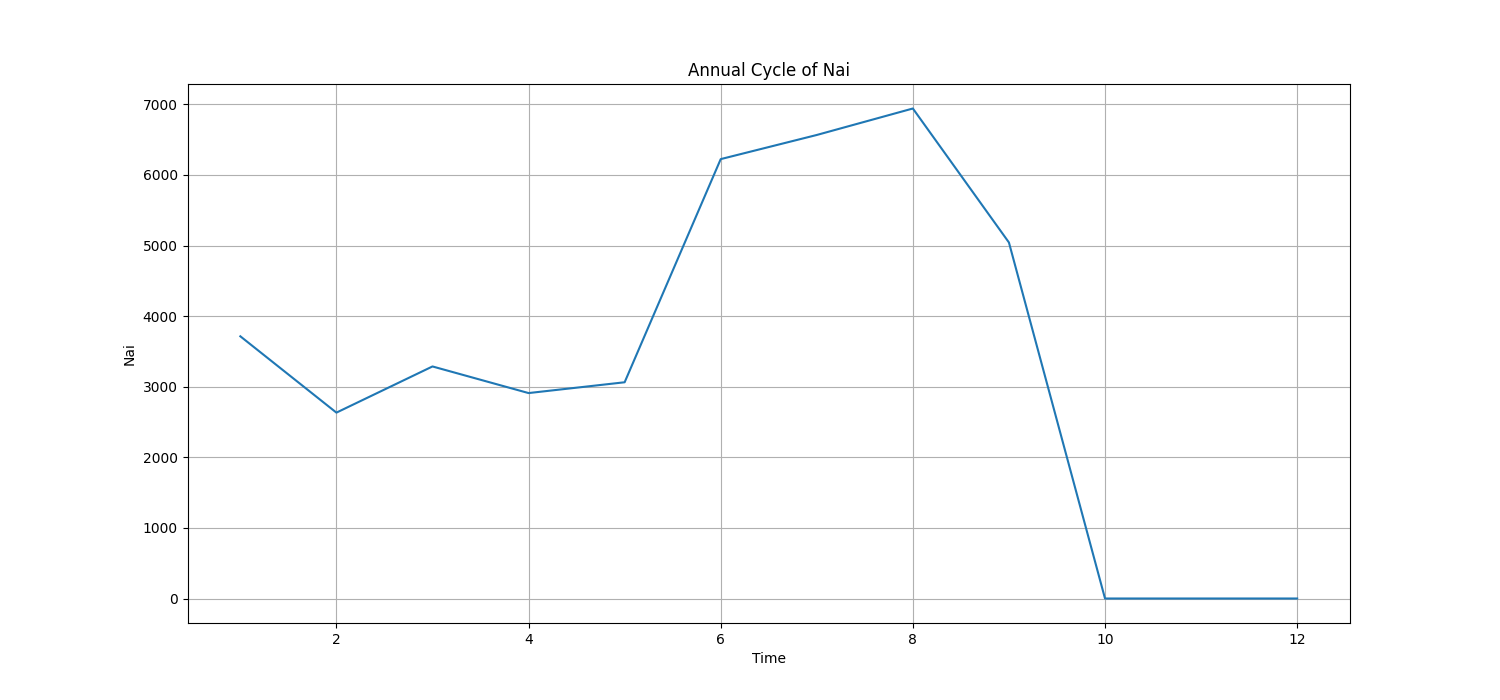
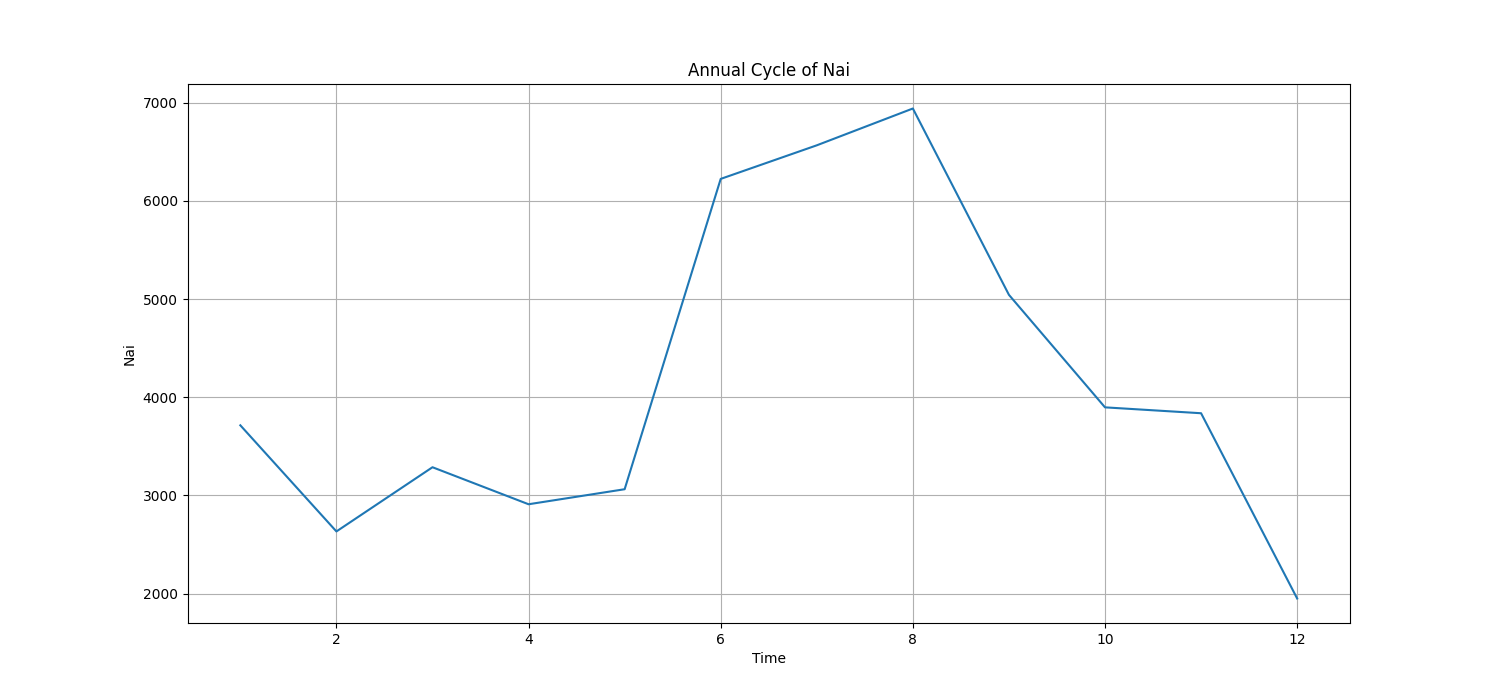
完善前端页面

diff --git a/sayhello/views.py b/sayhello/views.py
@@ -30,106 +30,6 @@ pd.set_option('display.width', 1000)
 
 
 
-"""
-# 画子图
-groups = [0, 1, 2, 3, 4, 5, 6, 7, 8, 9] # 绘制指定列的图
-i = 1
-pyplot.figure() # 绘制每一列
-for group in groups:
-    pyplot.subplot(len(groups), 1, i) # 行数、列数、索引数
-    pyplot.plot(values[:, group]) # 取所有行的group列
-    pyplot.title(dataset.columns[group], y=0.5, loc='right') # 命名
-    i += 1
-pyplot.show()
-print(dataset.head(5))
-"""
-
-# # 将数据转为监督学习所需格式
-# def series_to_supervised(data, n_in=1, n_out=1, dropnan=True):
-#     n_vars = 1 if type(data) is list else data.shape[1]
-#     df = DataFrame(data)
-#     cols, names = list(), list()
-#     # 输入步长序列 (t-n, ... t-1)
-#     for i in range(n_in, 0, -1):
-#         cols.append(df.shift(i))
-#         names += [('var%d(t-%d)' % (j+1, i)) for j in range(n_vars)]
-
-#     # 输出（预测）步长序列 (t, t+1, ... t+n)
-#     for i in range(0, n_out):
-#         cols.append(df.shift(-i))
-#         if i == 0:
-#             names += [('var%d(t)' % (j+1)) for j in range(n_vars)]
-#         else:
-#             names += [('var%d(t+%d)' % (j+1, i)) for j in range(n_vars)]
-
-
-#     # 合在一次
-#     agg = concat(cols, axis=1)
-#     agg.columns = names
-#     # 删除有空值的行
-#     if dropnan:
-#         agg.dropna(inplace=True)
-#     return agg
-
-# # 确保所有的数都是浮点数
-# values = values.astype('float32')
-# # 归一化所有的特征
-# scaler = MinMaxScaler(feature_range=(0, 1))
-# scaled = scaler.fit_transform(values)
-# # 处理数据符合监督学习格式
-# reframed = series_to_supervised(scaled, 1, 1)
-# # print(reframed.head(5))
-# # 删除我们不想预测的列
-# reframed.drop(reframed.columns[[9,11,12,13,14,15,16,17,18,19]], axis=1, inplace=True)
-# # print(reframed.head())
-
-# # 划分数据集
-# values = reframed.values
-# n_train_hours = 800 # 拿800作为训练数据集，随便定的，大概比例是50%
-# train = values[:n_train_hours, :]
-# test = values[n_train_hours:,   :]
-# # 拆分为输入和输出
-# train_X, train_y = train[:, :-1], train[:, -1]
-# test_X, test_y = test[:, :-1], test[:, -1]
-# # 将输入重塑为3维向量格式将[样本、时间步长、特征]
-# train_X = train_X.reshape((train_X.shape[0], 1, train_X.shape[1]))
-# test_X = test_X.reshape((test_X.shape[0], 1, test_X.shape[1]))
-# # print(train_X.shape, train_y.shape, test_X.shape, test_y.shape)
-
-# train_loss = [] # 存储损失的数值，传给前端
-# test_loss = []
-
-# # 设计神经网络
-# model = Sequential()
-# model.add(LSTM(50, input_shape=(train_X.shape[1], train_X.shape[2]))) # 训练50次
-# model.add(Dense(1))
-# model.compile(loss='mae', optimizer='adam')
-
-# # 使用训练集及测试集进行集合
-# history = model.fit(train_X, train_y, epochs=50, batch_size=72, validation_data=(test_X, test_y), verbose=2, shuffle=False)
-# pyplot.plot(history.history['loss'], label='train') # 损失值作为y轴
-# train_loss.append(history.history['loss'])
-# pyplot.plot(history.history['val_loss'], label='test')
-# test_loss.append(history.history['loss'])
-# pyplot.legend()
-# pyplot.show()
-
-# # 进行预测
-# print('--------------------------------------------------')
-# yhat = model.predict(test_X)
-# test_X = test_X.reshape((test_X.shape[0], test_X.shape[2]))
-# # 反比例预测 将预测与测试数据集结合起来并反转缩放比例
-# inv_yhat = concatenate((yhat, test_X[:, -9:]), axis=1)
-# inv_yhat = scaler.inverse_transform(inv_yhat)
-# inv_yhat = inv_yhat[:,0]
-# # 实际的反转比例
-# test_y = test_y.reshape((len(test_y), 1))
-# inv_y = concatenate((test_y, test_X[:, -9:]), axis=1)
-# inv_y = scaler.inverse_transform(inv_y)
-# inv_y = inv_y[:,0]
-# # 计算均方根误差
-# rmse = sqrt(mean_squared_error(inv_y, inv_yhat))
-# print('Test RMSE: %.3f' % rmse) # 最终结果
 
 
 # 配置 Flask-Login
@@ -199,7 +99,6 @@ def logout():
 #     return render_template('index.html',data=data)
 
 # 测试
-
 @app.route('/')
 def index():
     # 连接数据库、查询数据、画图的代码
@@ -273,14 +172,19 @@ def index():
         if (i < 10):
             index = index_year + "0" + str(i)
         else:
-            index = index_mon + str(i)
+            index = index_year + str(i)
         sum = 0
         len_tmp = 0
+        print("index:", index)
         for j in range(len(dates_tmp_year)):
             str_tmp = dates_tmp_year[j][:7]
+            if (str_tmp == "2022-11"):
+                print(nais_tmp_year[j])
             if (index == str_tmp):
                 sum += int(nais_tmp_year[j])
                 len_tmp += 1
+        print("sum:", sum)
+        print("len_tmp", len_tmp)
         if len_tmp > 0:
             nais_year.append(sum // len_tmp)
         else:
@@ -288,6 +192,8 @@ def index():
 
     plt.figure(figsize=(15, 7))
     plt.plot(dates_year, nais_year)
+    print(dates_year)
+    print(nais_year)
     plt.title('Annual Cycle of Nai')
     plt.xlabel('Time')
     plt.ylabel('Nai')
@@ -297,14 +203,92 @@ def index():
     with open('ImageYear.png', 'wb') as f:
         f.write(img.getvalue())
 
+    # 模型
+    # 将数据转为监督学习所需格式
+    def series_to_supervised(data, n_in=1, n_out=1, dropnan=True):
+        n_vars = 1 if type(data) is list else data.shape[1]
+        df = DataFrame(data)
+        cols, names = list(), list()
+        # 输入步长序列 (t-n, ... t-1)
+        for i in range(n_in, 0, -1):
+            cols.append(df.shift(i))
+            names += [('var%d(t-%d)' % (j+1, i)) for j in range(n_vars)]
 
-    # plt.figure(figsize=(40, 25))
-    # plt.plot(dates, nais)
-    # plt.title('In-game currency spent (daily data)')
-    # plt.grid(True)
-    # img = io.BytesIO()
-    # plt.savefig(img, format='png')
-    # with open('chart.png', 'wb') as f:
-    #     f.write(img.getvalue())
+        # 输出（预测）步长序列 (t, t+1, ... t+n)
+        for i in range(0, n_out):
+            cols.append(df.shift(-i))
+            if i == 0:
+                names += [('var%d(t)' % (j+1)) for j in range(n_vars)]
+            else:
+                names += [('var%d(t+%d)' % (j+1, i)) for j in range(n_vars)]
+
+
+        # 合在一次
+        agg = concat(cols, axis=1)
+        agg.columns = names
+        # 删除有空值的行
+        if dropnan:
+            agg.dropna(inplace=True)
+        return agg
+
+    # 确保所有的数都是浮点数
+    values = values.astype('float32')
+    # 归一化所有的特征
+    scaler = MinMaxScaler(feature_range=(0, 1))
+    scaled = scaler.fit_transform(values)
+    # 处理数据符合监督学习格式
+    reframed = series_to_supervised(scaled, 1, 1)
+    # print(reframed.head(5))
+    # 删除我们不想预测的列
+    reframed.drop(reframed.columns[[9,11,12,13,14,15,16,17,18,19]], axis=1, inplace=True)
+    # print(reframed.head())
+
+    # 划分数据集
+    values = reframed.values
+    n_train_hours = 800 # 拿800作为训练数据集，随便定的，大概比例是50%
+    train = values[:n_train_hours, :]
+    test = values[n_train_hours:,   :]
+    # 拆分为输入和输出
+    train_X, train_y = train[:, :-1], train[:, -1]
+    test_X, test_y = test[:, :-1], test[:, -1]
+    # 将输入重塑为3维向量格式将[样本、时间步长、特征]
+    train_X = train_X.reshape((train_X.shape[0], 1, train_X.shape[1]))
+    test_X = test_X.reshape((test_X.shape[0], 1, test_X.shape[1]))
+    # print(train_X.shape, train_y.shape, test_X.shape, test_y.shape)
+
+    train_loss = [] # 存储损失的数值，传给前端
+    test_loss = []
+
+    # 设计神经网络
+    model = Sequential()
+    model.add(LSTM(50, input_shape=(train_X.shape[1], train_X.shape[2]))) # 训练50次
+    model.add(Dense(1))
+    model.compile(loss='mae', optimizer='adam')
+
+    # 使用训练集及测试集进行集合
+    history = model.fit(train_X, train_y, epochs=50, batch_size=72, validation_data=(test_X, test_y), verbose=2, shuffle=False)
+    pyplot.plot(history.history['loss'], label='train') # 损失值作为y轴
+    train_loss.append(history.history['loss'])
+    pyplot.plot(history.history['val_loss'], label='test')
+    test_loss.append(history.history['loss'])
+    pyplot.legend()
+    pyplot.show()
+
+    # 进行预测
+    print('--------------------------------------------------')
+    yhat = model.predict(test_X)
+    test_X = test_X.reshape((test_X.shape[0], test_X.shape[2]))
+    # 反比例预测 将预测与测试数据集结合起来并反转缩放比例
+    inv_yhat = concatenate((yhat, test_X[:, -9:]), axis=1)
+    inv_yhat = scaler.inverse_transform(inv_yhat)
+    inv_yhat = inv_yhat[:,0]
+    # 实际的反转比例
+    test_y = test_y.reshape((len(test_y), 1))
+    inv_y = concatenate((test_y, test_X[:, -9:]), axis=1)
+    inv_y = scaler.inverse_transform(inv_y)
+    inv_y = inv_y[:,0]
+    # 计算均方根误差
+    rmse = sqrt(mean_squared_error(inv_y, inv_yhat))
+    print('Test RMSE: %.3f' % rmse) # 最终结果
 
     return 'Image saved!'

diff --git a/README.md b/README.md
@@ -52,7 +52,9 @@ watchdog==0.10.2
 
 ---
 
-### 数据库
+### 数据
+
+##### 数据库
 
 使用ORM（Object Relational Mapping 对象关系映射）技术，将SQL中的数据表、数据行、字段映射为类、对象和属性。
 
@@ -71,6 +73,12 @@ class Message(db.Model):
 get(ident)	# 传入主键值作为参数，返回指定主键值的记录
 count()		# 返回查询结果的数量
 ```
+
+##### 数据预处理
+
+经过检查，有三个数据明显不合理，将其作删除处理，示例如下：
+
+![image](https://user-images.githubusercontent.com/88172940/235351505-3cf7c4a3-dd8f-45a0-818d-c0967169c0a1.png)
 
 ---
 
@@ -111,4 +119,4 @@ count()		# 返回查询结果的数量
 
 从某个范围内随机挑选出某一年的负氧离子数据（展示样例为2022年）进行展示，并且取负氧离子浓度平均值作为某一天的数据，图像效果如下：
 
-![image](https://user-images.githubusercontent.com/88172940/235345838-0b481c12-402f-4909-a383-4f68e40ab81a.png)
+![image](https://user-images.githubusercontent.com/88172940/235351723-6ccab384-d66e-4b93-851b-90888ce019f4.png)
